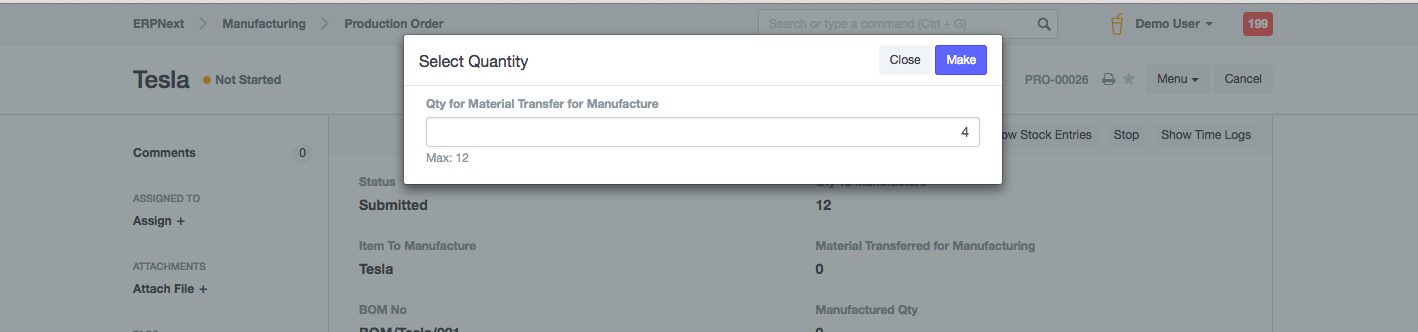
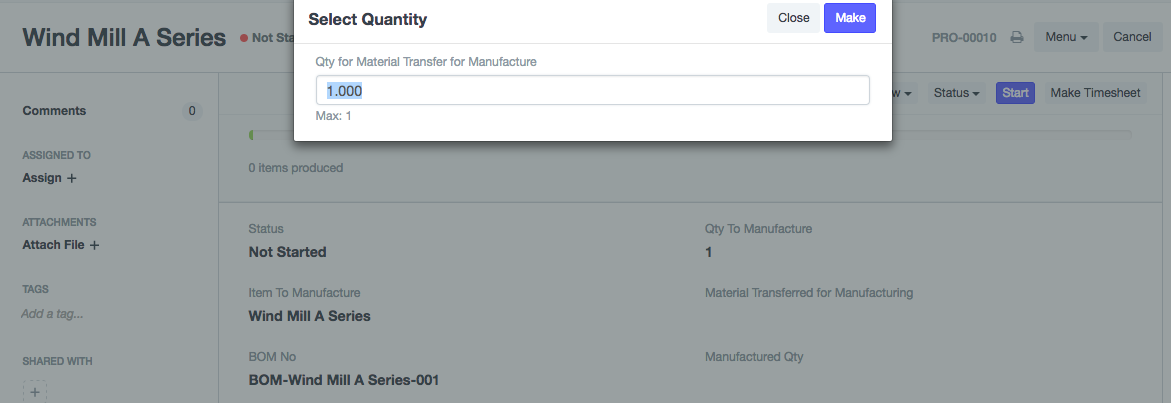
[fix] documentation

diff --git a/erpnext/docs/user/manual/en/manufacturing/production-order.md b/erpnext/docs/user/manual/en/manufacturing/production-order.md
@@ -1,3 +1,4 @@
+<img class="screenshot" alt="Production Order" src="{{docs_base_url}}/assets/img/manufacturing/manufacturing-flow.png">
 Production Order (also called as Work Order) is a document that is given to
 the manufacturing shop floor by the Production Planner as a signal to produce
 a certain quantity of a certain Item. Production Order also helps to generate
@@ -45,7 +46,7 @@ by:
 * Once you have submitted your Production Order, you need to Transfer the Raw Materials to initiate the Manufacturing Process.
 * This will create a Stock Entry with all the Items required to complete this Production Order to be added to the WIP Warehouse. (this will add sub-Items with BOM as one Item or explode their children based on your setting above).
 
-* Click on 'Transfer Materials for Manufacturing'.
+* Click on 'Start'.
 
 <img class="screenshot" alt="Transfer Materials" src="{{docs_base_url}}/assets/img/manufacturing/PO-material-transfer.png">
 
@@ -63,18 +64,18 @@ by:
 
 ### Making Time Logs
 
-* Progress in the Production Order can be tracked using [Time Log]({{docs_base_url}}/user/manual/en/projects/time-log.html)
-* Time Logs are created against Production Order Operations.
-* Drafts of Time Logs are also created based on the scheduled operations when an Production Order is Submitted.
-* To create more Time Logs against an operation select 'Make TIme Log' in the respective operation.
+* Progress in the Production Order can be tracked using [Timesheet]({{docs_base_url}}/user/manual/en/projects/timesheet/timesheet-against-production-order.html)
+* Timesheet's time slots are created against Production Order Operations.
+* Drafts of Timesheet is created based on the scheduled operations when an Production Order is Submitted.
+* To create more Timesheet against an operation click 'Make Timesheet' button.
 
-<img class="screenshot" alt="Make TL against PO" src="{{docs_base_url}}/assets/img/manufacturing/PO-operations-make-tl.png">
+<img class="screenshot" alt="Make timesheet against PO" src="{{docs_base_url}}/assets/img/manufacturing/PO-operations-make-ts.png">
 
 ###Updating Finished Goods
 
 * Once you are done with the Production Order you need to update the Finished Goods.
 * This will create a Stock Entry that will deduct all the sub-Items from the WIP Warehouse and add them to the Finished Goods Warehouse.
-* Click on 'Update Finished Goods'.
+* Click on 'Finish'.
 
 <img class="screenshot" alt="Update Finished Goods" src="{{docs_base_url}}/assets/img/manufacturing/PO-FG-update.png">
 

diff --git a/erpnext/docs/user/manual/en/CRM/opportunity.md b/erpnext/docs/user/manual/en/CRM/opportunity.md
@@ -1,5 +1,5 @@
 When you know a Lead is looking for some products or services to buy, you can
-track that as an Opportunity.
+track that as an Opportunity. Also opportunity document helps user to collect the requirement of a customer/lead.
 
 You can create an Opportunity from:
 
@@ -17,10 +17,20 @@ You can also open a “Open” Lead and click on “Create Opportunity” button
 
 <img class="screenshot" alt="Opportunity" src="{{docs_base_url}}/assets/img/crm/lead-to-opportunity.png">
 
+#### Figure 3: Create Opportunity for Customer to Collect their Requirement
+
+<img class="screenshot" alt="Opportunity" src="{{docs_base_url}}/assets/img/crm/requirement-gathering.png">
+
+
 An Opportunity can also come from an existing Customer. You can create
 multiple Opportunities against the same Lead. In Opportunity, apart from the
 Communication, you can also add the Items for which the Lead or Contact is
 looking for.
+
+#### Make Supplier Quotation
+In some business, user collect the rates from their supplier against the customer requirement and based on the supplier rates they prepare the quotation for the customer. In ERPNext user get an option to make supplier quotation from the opportunity.
+
+<img class="screenshot" alt="Opportunity" src="{{docs_base_url}}/assets/img/crm/make-sq-from-opportunity.png">
 
 > Best Practice: Leads and Opportunities are often referred as your “Sales
 Pipeline” this is what you need to track if you want to be able to predict how
